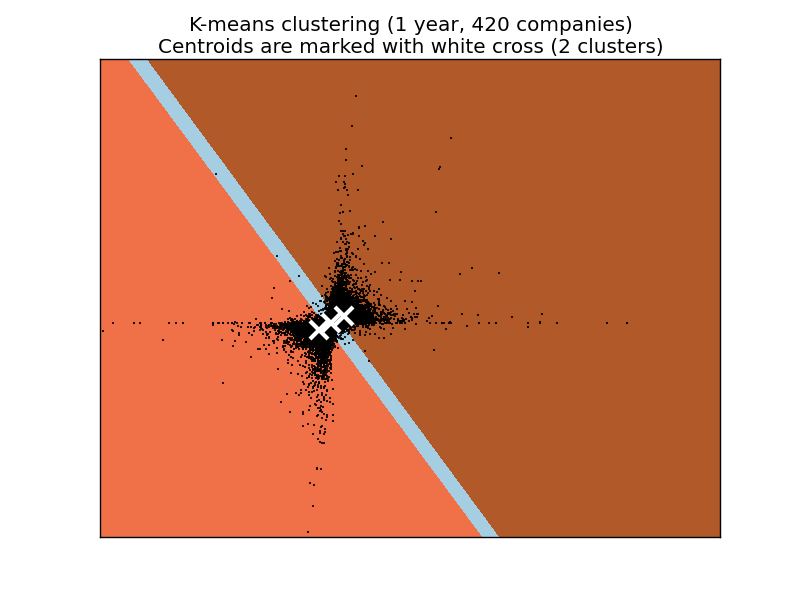
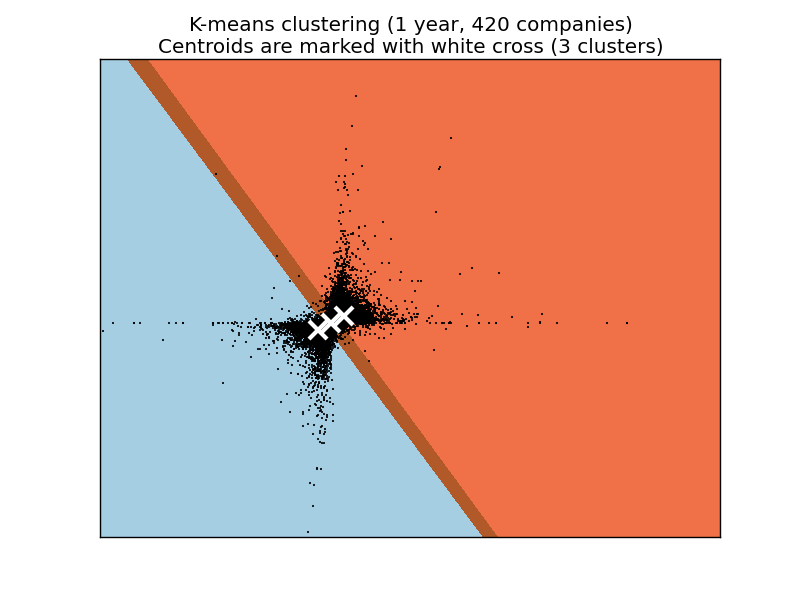
Added color by company, I will change data in a sec

diff --git a/src/kmeans.py b/src/kmeans.py
@@ -3,6 +3,7 @@ print(__doc__)
 from time import time
 import numpy as np
 import matplotlib.pyplot as plt
+import matplotlib.colors as color
 import urllib
 
 from sklearn import metrics
@@ -15,7 +16,7 @@ import pandas as pd
 
 np.random.seed(42)
 
-num_stocks = 15;
+num_stocks = 420;
 max_clusters = 3;
 
 
@@ -23,6 +24,7 @@ f = open('sp500-symbol-list.txt')
 test = pd.read_csv("new1yrdata/A.csv")
 test2 = np.array(test)
 i = 1
+l = [[test2[:, [1,2]]]];
 for line in f.readlines():
 	if i >= num_stocks:
 		break
@@ -33,11 +35,14 @@ for line in f.readlines():
 	temp = pd.read_csv("new1yrdata/" + line + ".csv")
 	temp = np.array(temp)
 	temp2 = temp[2:, :]
+	l.append(temp2[:, [1,2]])
 	test2 = np.concatenate((test2, temp2))
 	i+=1
 
+
+
 digits = test2[:, 1:]
-data =  digits[:, [0,2]] # 0 = % change, 1 = variation, 2 = adjusted
+data =  digits[:, [0,1]] # 0 = % change, 1 = variation, 2 = adjusted
 target = digits[:, 3]
 
 n_samples, n_features = digits.shape
@@ -75,15 +80,23 @@ plt.imshow(Z, interpolation='nearest',
            extent=(xx.min(), xx.max(), yy.min(), yy.max()),
            cmap=plt.cm.Paired,
            aspect='auto', origin='lower')
-
-plt.plot(reduced_data[:, 0], reduced_data[:, 1], 'k.', markersize=2)
+i = 0
+while True:
+    if i >= len(np.unique(target)):
+        break
+    for c in color.cnames:
+        if i >= len(np.unique(target)):
+            break
+        datacluster = np.array(l.pop());
+        plt.plot(datacluster[:, 0], datacluster[:, 1], 'k.', markersize=2, color='k')
+        i += 1
 # Plot the centroids as a white X
 centroids = kmeans.cluster_centers_
 plt.scatter(centroids[:, 0], centroids[:, 1],
             marker='x', s=169, linewidths=3,
             color='w', zorder=10)
 plt.title('K-means clustering (1 year, 420 companies)\n'
-          'Centroids are marked with white cross (2 clusters)')
+          'Centroids are marked with white cross (3 clusters)')
 plt.xlim(x_min, x_max)
 plt.ylim(y_min, y_max)
 plt.xticks(())
